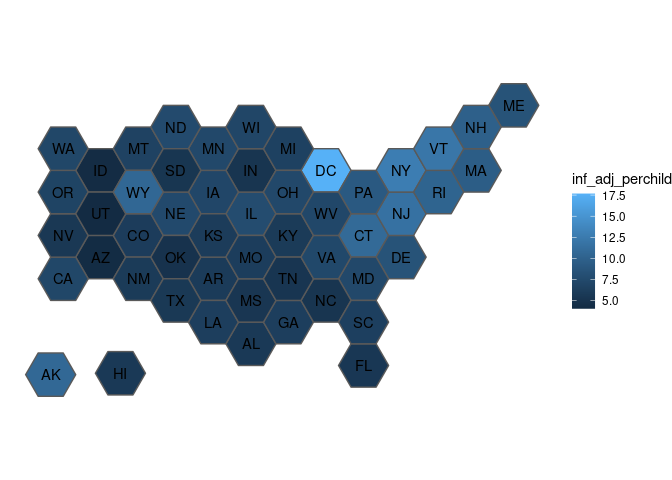
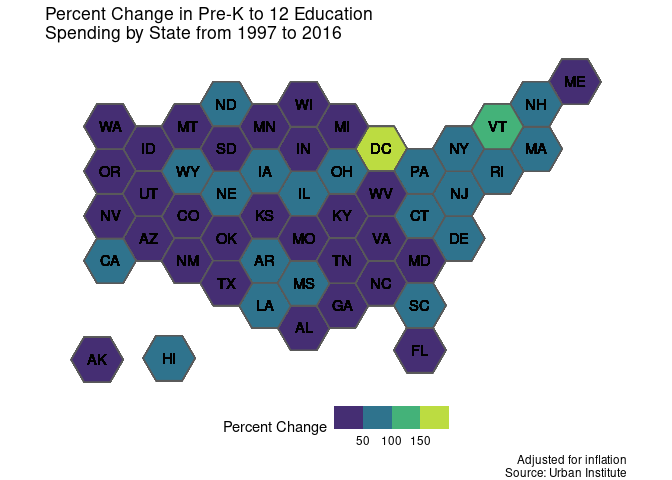
Finalizing plot for publication

diff --git a/20200915/kids.md b/20200915/kids.md
@@ -1,41 +1,152 @@
 US Spending on Kids
 ================
 James P. Hare
-9/14/2020
+9/15/2020
 
 ``` r
-PK12_spending <- kids %>%
-        filter(year == 2016,
-               variable == "PK12ed")
+knitr::opts_chunk$set(echo = TRUE)
 
-#modify code from https://github.com/kaerosen/tilemaps/blob/master/data-raw/governors.R to include DC
-states <- spData::us_states[,c("NAME", "geometry")]
-states <- states[order(states$NAME),]
-states$abbreviation <- c("AL", "AZ", "AR", "CA", "CO", "CT", "DE", "DC", "FL",
-                            "GA", "ID", "IL", "IN", "IA", "KS", "KY", "LA",
-                            "ME", "MD", "MA", "MI", "MN", "MS", "MO", "MT",
-                            "NE", "NV", "NH", "NJ", "NM", "NY", "NC", "ND",
-                            "OH", "OK", "OR", "PA", "RI", "SC", "SD", "TN",
-                            "TX", "UT", "VT", "VA", "WA", "WV", "WI", "WY")
-states <- sf::st_transform(states, 3857)
+library(tidyverse)
+```
+
+    ## ── Attaching packages ────────────────────────────────────────────────────────────────────────────────────────────────────────────────────────────────────── tidyverse 1.3.0 ──
+
+    ## ✓ ggplot2 3.3.2     ✓ purrr   0.3.4
+    ## ✓ tibble  3.0.3     ✓ dplyr   1.0.2
+    ## ✓ tidyr   1.1.2     ✓ stringr 1.4.0
+    ## ✓ readr   1.3.1     ✓ forcats 0.5.0
+
+    ## ── Conflicts ───────────────────────────────────────────────────────────────────────────────────────────────────────────────────────────────────────── tidyverse_conflicts() ──
+    ## x dplyr::filter() masks stats::filter()
+    ## x dplyr::lag()    masks stats::lag()
+
+``` r
+library(tilemaps)
+library(sf)
+```
+
+    ## Linking to GEOS 3.8.0, GDAL 3.0.4, PROJ 6.3.1
+
+``` r
+kids <-
+  readr::read_csv(
+    'https://raw.githubusercontent.com/rfordatascience/tidytuesday/master/data/2020/2020-09-15/kids.csv',
+    col_types = cols(
+      state = col_character(),
+      variable = col_character(),
+      year = col_factor(),
+      raw = col_double(),
+      inf_adj = col_double(),
+      inf_adj_perchild = col_double()
+    )
+  )
 ```
 
 ``` r
-states <- states %>%
+PK12_spending <- kids %>%
+  filter(variable == "PK12ed") %>%
+  group_by(state) %>%
+  mutate(percent_change = (((inf_adj_perchild[year == 2016] /
+                               inf_adj_perchild[year == 1997]) - 1
+  ) * 100)) %>%
+  select(state, percent_change)
+
+#modify code from https://github.com/kaerosen/tilemaps/blob/master/data-raw/governors.R to include DC
+#rewrite code to Tidyverse style
+states <- spData::us_states[, c("NAME", "geometry")] %>%
+  arrange(NAME) %>%
+  mutate(
+    abbreviation =   c(
+      "AL",
+      "AZ",
+      "AR",
+      "CA",
+      "CO",
+      "CT",
+      "DE",
+      "DC",
+      "FL",
+      "GA",
+      "ID",
+      "IL",
+      "IN",
+      "IA",
+      "KS",
+      "KY",
+      "LA",
+      "ME",
+      "MD",
+      "MA",
+      "MI",
+      "MN",
+      "MS",
+      "MO",
+      "MT",
+      "NE",
+      "NV",
+      "NH",
+      "NJ",
+      "NM",
+      "NY",
+      "NC",
+      "ND",
+      "OH",
+      "OK",
+      "OR",
+      "PA",
+      "RI",
+      "SC",
+      "SD",
+      "TN",
+      "TX",
+      "UT",
+      "VT",
+      "VA",
+      "WA",
+      "WV",
+      "WI",
+      "WY"
+    )
+  ) %>%
+  sf::st_transform(3857) %>%
   mutate(tile_map = generate_map(geometry, square = FALSE, flat_topped = TRUE))
 
-all_states <- states %>% 
-  add_row(NAME = "Alaska", abbreviation = "AK",
-          tile_map = create_island(states$tile_map, "lower left")) %>%
-  add_row(NAME = "Hawaii", abbreviation = "HI",
-          tile_map = create_island(states$tile_map, c(-12050000, 3008338))) %>% 
+states <- states %>%
+  add_row(
+    NAME = "Alaska",
+    abbreviation = "AK",
+    tile_map = create_island(states$tile_map, "lower left")
+  ) %>%
+  add_row(
+    NAME = "Hawaii",
+    abbreviation = "HI",
+    tile_map = create_island(states$tile_map, c(-12050000, 3008338))
+  ) %>%
+  arrange(NAME)
+
+states <- states %>%
   left_join(PK12_spending, by = c("NAME" = "state"))
 
-ggplot(all_states) +
-  geom_sf(aes(geometry = tile_map, fill = inf_adj_perchild)) +
-  geom_sf_text(aes(geometry = tile_map, label = abbreviation),
-               fun.geometry = function(x) st_centroid(x)) +
-  theme_void()
+remove(kids)
+remove(PK12_spending)
+```
+
+``` r
+ggplot(states) +
+  geom_sf(aes(geometry = tile_map, fill = percent_change)) +
+  geom_sf_text(
+    aes(geometry = tile_map, label = abbreviation),
+    fun.geometry = function(x)
+      st_centroid(x)
+  ) +
+  labs(
+    title = "Percent Change in Pre-K to 12 Education\nSpending by State from 1997 to 2016",
+    caption = "Adjusted for inflation\nSource: Urban Institute",
+    fill = "Percent Change"
+  ) +
+  scale_fill_viridis_b() +
+  theme_void() +
+  theme(legend.position = "bottom")
 ```
 
 ![](kids_files/figure-gfm/map-1.png)<!-- -->
